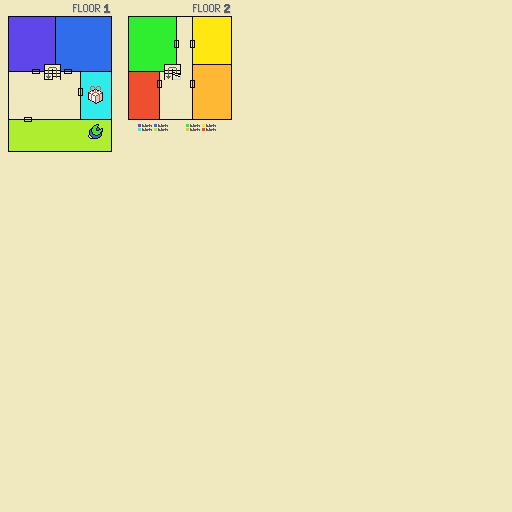
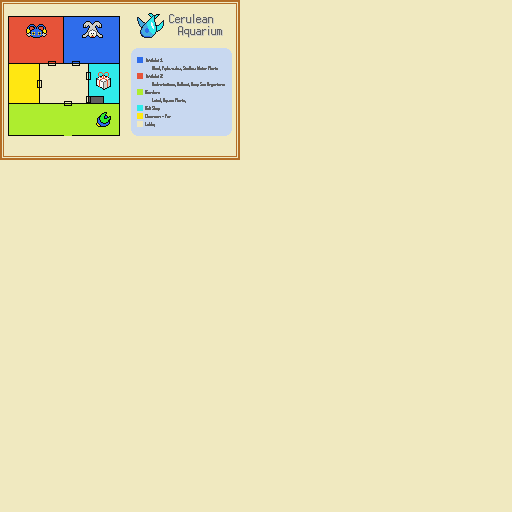
Remake aquarium map to match current layout

Changed region(s): [[0.0, 0.0, 0.4688, 0.3125]]

diff --git a/src/data/region_map/region_map_layout.h b/src/data/region_map/region_map_layout.h
@@ -1,17 +1,17 @@
 static const u8 sRegionMap_MapSectionLayout[MAP_HEIGHT][MAP_WIDTH] = {
-    {MAPSEC_EXHIBIT_1, MAPSEC_EXHIBIT_1, MAPSEC_EXHIBIT_1, MAPSEC_EXHIBIT_1, MAPSEC_EXHIBIT_1, MAPSEC_EXHIBIT_1, MAPSEC_EXHIBIT_2, MAPSEC_EXHIBIT_2, MAPSEC_EXHIBIT_2, MAPSEC_EXHIBIT_2, MAPSEC_EXHIBIT_2, MAPSEC_EXHIBIT_2, MAPSEC_EXHIBIT_2, MAPSEC_NONE, MAPSEC_NONE, MAPSEC_NONE, MAPSEC_NONE, MAPSEC_NONE, MAPSEC_NONE, MAPSEC_NONE, MAPSEC_NONE, MAPSEC_NONE, MAPSEC_NONE, MAPSEC_NONE, MAPSEC_NONE, MAPSEC_NONE, MAPSEC_NONE, MAPSEC_NONE},
-    {MAPSEC_EXHIBIT_1, MAPSEC_EXHIBIT_1, MAPSEC_EXHIBIT_1, MAPSEC_EXHIBIT_1, MAPSEC_EXHIBIT_1, MAPSEC_EXHIBIT_1, MAPSEC_EXHIBIT_2, MAPSEC_EXHIBIT_2, MAPSEC_EXHIBIT_2, MAPSEC_EXHIBIT_2, MAPSEC_EXHIBIT_2, MAPSEC_EXHIBIT_2, MAPSEC_EXHIBIT_2, MAPSEC_NONE, MAPSEC_NONE, MAPSEC_NONE, MAPSEC_NONE, MAPSEC_NONE, MAPSEC_NONE, MAPSEC_NONE, MAPSEC_NONE, MAPSEC_NONE, MAPSEC_NONE, MAPSEC_NONE, MAPSEC_NONE, MAPSEC_NONE, MAPSEC_NONE, MAPSEC_NONE},
-    {MAPSEC_EXHIBIT_1, MAPSEC_EXHIBIT_1, MAPSEC_EXHIBIT_1, MAPSEC_EXHIBIT_1, MAPSEC_EXHIBIT_1, MAPSEC_EXHIBIT_1, MAPSEC_EXHIBIT_2, MAPSEC_EXHIBIT_2, MAPSEC_EXHIBIT_2, MAPSEC_EXHIBIT_2, MAPSEC_EXHIBIT_2, MAPSEC_EXHIBIT_2, MAPSEC_EXHIBIT_2, MAPSEC_NONE, MAPSEC_NONE, MAPSEC_NONE, MAPSEC_NONE, MAPSEC_NONE, MAPSEC_NONE, MAPSEC_NONE, MAPSEC_NONE, MAPSEC_NONE, MAPSEC_NONE, MAPSEC_NONE, MAPSEC_NONE, MAPSEC_NONE, MAPSEC_NONE, MAPSEC_NONE},
-    {MAPSEC_EXHIBIT_1, MAPSEC_EXHIBIT_1, MAPSEC_EXHIBIT_1, MAPSEC_EXHIBIT_1, MAPSEC_EXHIBIT_1, MAPSEC_EXHIBIT_1, MAPSEC_EXHIBIT_2, MAPSEC_EXHIBIT_2, MAPSEC_EXHIBIT_2, MAPSEC_EXHIBIT_2, MAPSEC_EXHIBIT_2, MAPSEC_EXHIBIT_2, MAPSEC_EXHIBIT_2, MAPSEC_NONE, MAPSEC_NONE, MAPSEC_NONE, MAPSEC_NONE, MAPSEC_NONE, MAPSEC_NONE, MAPSEC_NONE, MAPSEC_NONE, MAPSEC_NONE, MAPSEC_NONE, MAPSEC_NONE, MAPSEC_NONE, MAPSEC_NONE, MAPSEC_NONE, MAPSEC_NONE},
-    {MAPSEC_EXHIBIT_1, MAPSEC_EXHIBIT_1, MAPSEC_EXHIBIT_1, MAPSEC_EXHIBIT_1, MAPSEC_EXHIBIT_1, MAPSEC_EXHIBIT_1, MAPSEC_EXHIBIT_2, MAPSEC_EXHIBIT_2, MAPSEC_EXHIBIT_2, MAPSEC_EXHIBIT_2, MAPSEC_EXHIBIT_2, MAPSEC_EXHIBIT_2, MAPSEC_EXHIBIT_2, MAPSEC_NONE, MAPSEC_NONE, MAPSEC_NONE, MAPSEC_NONE, MAPSEC_NONE, MAPSEC_NONE, MAPSEC_NONE, MAPSEC_NONE, MAPSEC_NONE, MAPSEC_NONE, MAPSEC_NONE, MAPSEC_NONE, MAPSEC_NONE, MAPSEC_NONE, MAPSEC_NONE},
-    {MAPSEC_EXHIBIT_1, MAPSEC_EXHIBIT_1, MAPSEC_EXHIBIT_1, MAPSEC_EXHIBIT_1, MAPSEC_EXHIBIT_1, MAPSEC_EXHIBIT_1, MAPSEC_EXHIBIT_2, MAPSEC_EXHIBIT_2, MAPSEC_EXHIBIT_2, MAPSEC_EXHIBIT_2, MAPSEC_EXHIBIT_2, MAPSEC_EXHIBIT_2, MAPSEC_EXHIBIT_2, MAPSEC_NONE, MAPSEC_NONE, MAPSEC_NONE, MAPSEC_NONE, MAPSEC_NONE, MAPSEC_NONE, MAPSEC_NONE, MAPSEC_NONE, MAPSEC_NONE, MAPSEC_NONE, MAPSEC_NONE, MAPSEC_NONE, MAPSEC_NONE, MAPSEC_NONE, MAPSEC_NONE},
-    {MAPSEC_EXHIBIT_1, MAPSEC_EXHIBIT_1, MAPSEC_EXHIBIT_1, MAPSEC_EXHIBIT_1, MAPSEC_EXHIBIT_1, MAPSEC_LOBBY, MAPSEC_EXHIBIT_2, MAPSEC_EXHIBIT_2, MAPSEC_EXHIBIT_2, MAPSEC_EXHIBIT_2, MAPSEC_EXHIBIT_2, MAPSEC_EXHIBIT_2, MAPSEC_EXHIBIT_2, MAPSEC_NONE, MAPSEC_NONE, MAPSEC_NONE, MAPSEC_NONE, MAPSEC_NONE, MAPSEC_NONE, MAPSEC_NONE, MAPSEC_NONE, MAPSEC_NONE, MAPSEC_NONE, MAPSEC_NONE, MAPSEC_NONE, MAPSEC_NONE, MAPSEC_NONE, MAPSEC_NONE},
-    {MAPSEC_LOBBY, MAPSEC_LOBBY, MAPSEC_LOBBY, MAPSEC_LOBBY, MAPSEC_LOBBY, MAPSEC_LOBBY, MAPSEC_LOBBY, MAPSEC_LOBBY, MAPSEC_LOBBY, MAPSEC_GIFT_SHOP, MAPSEC_GIFT_SHOP, MAPSEC_GIFT_SHOP, MAPSEC_GIFT_SHOP, MAPSEC_NONE, MAPSEC_NONE, MAPSEC_CLASSROOM, MAPSEC_CLASSROOM, MAPSEC_CLASSROOM, MAPSEC_CLASSROOM, MAPSEC_NONE, MAPSEC_NONE, MAPSEC_NONE, MAPSEC_NONE, MAPSEC_NONE, MAPSEC_NONE, MAPSEC_NONE, MAPSEC_NONE, MAPSEC_NONE},
-    {MAPSEC_LOBBY, MAPSEC_LOBBY, MAPSEC_LOBBY, MAPSEC_LOBBY, MAPSEC_LOBBY, MAPSEC_LOBBY, MAPSEC_LOBBY, MAPSEC_LOBBY, MAPSEC_LOBBY, MAPSEC_GIFT_SHOP, MAPSEC_GIFT_SHOP, MAPSEC_GIFT_SHOP, MAPSEC_GIFT_SHOP, MAPSEC_NONE, MAPSEC_NONE, MAPSEC_CLASSROOM, MAPSEC_CLASSROOM, MAPSEC_CLASSROOM, MAPSEC_CLASSROOM, MAPSEC_NONE, MAPSEC_NONE, MAPSEC_NONE, MAPSEC_NONE, MAPSEC_NONE, MAPSEC_NONE, MAPSEC_NONE, MAPSEC_NONE, MAPSEC_NONE},
-    {MAPSEC_LOBBY, MAPSEC_LOBBY, MAPSEC_LOBBY, MAPSEC_LOBBY, MAPSEC_LOBBY, MAPSEC_LOBBY, MAPSEC_LOBBY, MAPSEC_LOBBY, MAPSEC_LOBBY, MAPSEC_GIFT_SHOP, MAPSEC_GIFT_SHOP, MAPSEC_GIFT_SHOP, MAPSEC_GIFT_SHOP, MAPSEC_NONE, MAPSEC_NONE, MAPSEC_CLASSROOM, MAPSEC_CLASSROOM, MAPSEC_CLASSROOM, MAPSEC_CLASSROOM, MAPSEC_NONE, MAPSEC_NONE, MAPSEC_NONE, MAPSEC_NONE, MAPSEC_NONE, MAPSEC_NONE, MAPSEC_NONE, MAPSEC_NONE, MAPSEC_NONE},
-    {MAPSEC_LOBBY, MAPSEC_LOBBY, MAPSEC_LOBBY, MAPSEC_LOBBY, MAPSEC_LOBBY, MAPSEC_LOBBY, MAPSEC_LOBBY, MAPSEC_LOBBY, MAPSEC_LOBBY, MAPSEC_GIFT_SHOP, MAPSEC_GIFT_SHOP, MAPSEC_GIFT_SHOP, MAPSEC_GIFT_SHOP, MAPSEC_NONE, MAPSEC_NONE, MAPSEC_CLASSROOM, MAPSEC_CLASSROOM, MAPSEC_CLASSROOM, MAPSEC_CLASSROOM, MAPSEC_NONE, MAPSEC_NONE, MAPSEC_NONE, MAPSEC_NONE, MAPSEC_NONE, MAPSEC_NONE, MAPSEC_NONE, MAPSEC_NONE, MAPSEC_NONE},
-    {MAPSEC_LOBBY, MAPSEC_LOBBY, MAPSEC_LOBBY, MAPSEC_LOBBY, MAPSEC_LOBBY, MAPSEC_LOBBY, MAPSEC_LOBBY, MAPSEC_LOBBY, MAPSEC_LOBBY, MAPSEC_GIFT_SHOP, MAPSEC_GIFT_SHOP, MAPSEC_GIFT_SHOP, MAPSEC_GIFT_SHOP, MAPSEC_NONE, MAPSEC_NONE, MAPSEC_CLASSROOM, MAPSEC_CLASSROOM, MAPSEC_CLASSROOM, MAPSEC_CLASSROOM, MAPSEC_NONE, MAPSEC_NONE, MAPSEC_NONE, MAPSEC_NONE, MAPSEC_NONE, MAPSEC_NONE, MAPSEC_NONE, MAPSEC_NONE, MAPSEC_NONE},
-    {MAPSEC_LOBBY, MAPSEC_LOBBY, MAPSEC_LOBBY, MAPSEC_LOBBY, MAPSEC_LOBBY, MAPSEC_LOBBY, MAPSEC_LOBBY, MAPSEC_LOBBY, MAPSEC_LOBBY, MAPSEC_GIFT_SHOP, MAPSEC_GIFT_SHOP, MAPSEC_GIFT_SHOP, MAPSEC_GIFT_SHOP, MAPSEC_NONE, MAPSEC_NONE, MAPSEC_CLASSROOM, MAPSEC_CLASSROOM, MAPSEC_CLASSROOM, MAPSEC_CLASSROOM, MAPSEC_NONE, MAPSEC_NONE, MAPSEC_NONE, MAPSEC_NONE, MAPSEC_NONE, MAPSEC_NONE, MAPSEC_NONE, MAPSEC_NONE, MAPSEC_NONE},
-    {MAPSEC_GARDEN, MAPSEC_GARDEN, MAPSEC_GARDEN, MAPSEC_GARDEN, MAPSEC_GARDEN, MAPSEC_GARDEN, MAPSEC_GARDEN, MAPSEC_GARDEN, MAPSEC_GARDEN, MAPSEC_GARDEN, MAPSEC_GARDEN, MAPSEC_GARDEN, MAPSEC_GARDEN, MAPSEC_NONE, MAPSEC_NONE, MAPSEC_NONE, MAPSEC_NONE, MAPSEC_NONE, MAPSEC_NONE, MAPSEC_NONE, MAPSEC_NONE, MAPSEC_NONE, MAPSEC_NONE, MAPSEC_NONE, MAPSEC_NONE, MAPSEC_NONE, MAPSEC_NONE, MAPSEC_NONE},
-    {MAPSEC_GARDEN, MAPSEC_GARDEN, MAPSEC_GARDEN, MAPSEC_GARDEN, MAPSEC_GARDEN, MAPSEC_GARDEN, MAPSEC_GARDEN, MAPSEC_GARDEN, MAPSEC_GARDEN, MAPSEC_GARDEN, MAPSEC_GARDEN, MAPSEC_GARDEN, MAPSEC_GARDEN, MAPSEC_NONE, MAPSEC_NONE, MAPSEC_NONE, MAPSEC_NONE, MAPSEC_NONE, MAPSEC_NONE, MAPSEC_NONE, MAPSEC_NONE, MAPSEC_NONE, MAPSEC_NONE, MAPSEC_NONE, MAPSEC_NONE, MAPSEC_NONE, MAPSEC_NONE, MAPSEC_NONE},
+    {MAPSEC_EXHIBIT_2, MAPSEC_EXHIBIT_2, MAPSEC_EXHIBIT_2, MAPSEC_EXHIBIT_2, MAPSEC_EXHIBIT_2, MAPSEC_EXHIBIT_2, MAPSEC_EXHIBIT_2, MAPSEC_EXHIBIT_1, MAPSEC_EXHIBIT_1, MAPSEC_EXHIBIT_1, MAPSEC_EXHIBIT_1, MAPSEC_EXHIBIT_1, MAPSEC_EXHIBIT_1, MAPSEC_EXHIBIT_1},
+    {MAPSEC_EXHIBIT_2, MAPSEC_EXHIBIT_2, MAPSEC_EXHIBIT_2, MAPSEC_EXHIBIT_2, MAPSEC_EXHIBIT_2, MAPSEC_EXHIBIT_2, MAPSEC_EXHIBIT_2, MAPSEC_EXHIBIT_1, MAPSEC_EXHIBIT_1, MAPSEC_EXHIBIT_1, MAPSEC_EXHIBIT_1, MAPSEC_EXHIBIT_1, MAPSEC_EXHIBIT_1, MAPSEC_EXHIBIT_1},
+    {MAPSEC_EXHIBIT_2, MAPSEC_EXHIBIT_2, MAPSEC_EXHIBIT_2, MAPSEC_EXHIBIT_2, MAPSEC_EXHIBIT_2, MAPSEC_EXHIBIT_2, MAPSEC_EXHIBIT_2, MAPSEC_EXHIBIT_1, MAPSEC_EXHIBIT_1, MAPSEC_EXHIBIT_1, MAPSEC_EXHIBIT_1, MAPSEC_EXHIBIT_1, MAPSEC_EXHIBIT_1, MAPSEC_EXHIBIT_1},
+    {MAPSEC_EXHIBIT_2, MAPSEC_EXHIBIT_2, MAPSEC_EXHIBIT_2, MAPSEC_EXHIBIT_2, MAPSEC_EXHIBIT_2, MAPSEC_EXHIBIT_2, MAPSEC_EXHIBIT_2, MAPSEC_EXHIBIT_1, MAPSEC_EXHIBIT_1, MAPSEC_EXHIBIT_1, MAPSEC_EXHIBIT_1, MAPSEC_EXHIBIT_1, MAPSEC_EXHIBIT_1, MAPSEC_EXHIBIT_1},
+    {MAPSEC_EXHIBIT_2, MAPSEC_EXHIBIT_2, MAPSEC_EXHIBIT_2, MAPSEC_EXHIBIT_2, MAPSEC_EXHIBIT_2, MAPSEC_EXHIBIT_2, MAPSEC_EXHIBIT_2, MAPSEC_EXHIBIT_1, MAPSEC_EXHIBIT_1, MAPSEC_EXHIBIT_1, MAPSEC_EXHIBIT_1, MAPSEC_EXHIBIT_1, MAPSEC_EXHIBIT_1, MAPSEC_EXHIBIT_1},
+    {MAPSEC_EXHIBIT_2, MAPSEC_EXHIBIT_2, MAPSEC_EXHIBIT_2, MAPSEC_EXHIBIT_2, MAPSEC_EXHIBIT_2, MAPSEC_EXHIBIT_2, MAPSEC_EXHIBIT_2, MAPSEC_EXHIBIT_1, MAPSEC_EXHIBIT_1, MAPSEC_EXHIBIT_1, MAPSEC_EXHIBIT_1, MAPSEC_EXHIBIT_1, MAPSEC_EXHIBIT_1, MAPSEC_EXHIBIT_1},
+    {MAPSEC_CLASSROOM, MAPSEC_CLASSROOM, MAPSEC_CLASSROOM, MAPSEC_CLASSROOM, MAPSEC_CLASSROOM, MAPSEC_LOBBY, MAPSEC_LOBBY, MAPSEC_LOBBY, MAPSEC_LOBBY, MAPSEC_LOBBY, MAPSEC_LOBBY, MAPSEC_GIFT_SHOP, MAPSEC_GIFT_SHOP, MAPSEC_GIFT_SHOP},
+    {MAPSEC_CLASSROOM, MAPSEC_CLASSROOM, MAPSEC_CLASSROOM, MAPSEC_CLASSROOM, MAPSEC_CLASSROOM, MAPSEC_LOBBY, MAPSEC_LOBBY, MAPSEC_LOBBY, MAPSEC_LOBBY, MAPSEC_LOBBY, MAPSEC_LOBBY, MAPSEC_GIFT_SHOP, MAPSEC_GIFT_SHOP, MAPSEC_GIFT_SHOP},
+    {MAPSEC_CLASSROOM, MAPSEC_CLASSROOM, MAPSEC_CLASSROOM, MAPSEC_CLASSROOM, MAPSEC_CLASSROOM, MAPSEC_LOBBY, MAPSEC_LOBBY, MAPSEC_LOBBY, MAPSEC_LOBBY, MAPSEC_LOBBY, MAPSEC_LOBBY, MAPSEC_GIFT_SHOP, MAPSEC_GIFT_SHOP, MAPSEC_GIFT_SHOP},
+    {MAPSEC_CLASSROOM, MAPSEC_CLASSROOM, MAPSEC_CLASSROOM, MAPSEC_CLASSROOM, MAPSEC_CLASSROOM, MAPSEC_LOBBY, MAPSEC_LOBBY, MAPSEC_LOBBY, MAPSEC_LOBBY, MAPSEC_LOBBY, MAPSEC_LOBBY, MAPSEC_GIFT_SHOP, MAPSEC_GIFT_SHOP, MAPSEC_GIFT_SHOP},
+    {MAPSEC_CLASSROOM, MAPSEC_CLASSROOM, MAPSEC_CLASSROOM, MAPSEC_CLASSROOM, MAPSEC_CLASSROOM, MAPSEC_LOBBY, MAPSEC_LOBBY, MAPSEC_LOBBY, MAPSEC_LOBBY, MAPSEC_LOBBY, MAPSEC_STORAGE_ROOM, MAPSEC_STORAGE_ROOM, MAPSEC_GIFT_SHOP, MAPSEC_GIFT_SHOP},
+    {MAPSEC_GARDEN, MAPSEC_GARDEN, MAPSEC_GARDEN, MAPSEC_GARDEN, MAPSEC_GARDEN, MAPSEC_GARDEN, MAPSEC_GARDEN, MAPSEC_GARDEN, MAPSEC_GARDEN, MAPSEC_GARDEN, MAPSEC_GARDEN, MAPSEC_GARDEN, MAPSEC_GARDEN, MAPSEC_GARDEN},
+    {MAPSEC_GARDEN, MAPSEC_GARDEN, MAPSEC_GARDEN, MAPSEC_GARDEN, MAPSEC_GARDEN, MAPSEC_GARDEN, MAPSEC_GARDEN, MAPSEC_GARDEN, MAPSEC_GARDEN, MAPSEC_GARDEN, MAPSEC_GARDEN, MAPSEC_GARDEN, MAPSEC_GARDEN, MAPSEC_GARDEN},
+    {MAPSEC_GARDEN, MAPSEC_GARDEN, MAPSEC_GARDEN, MAPSEC_GARDEN, MAPSEC_GARDEN, MAPSEC_GARDEN, MAPSEC_GARDEN, MAPSEC_GARDEN, MAPSEC_GARDEN, MAPSEC_GARDEN, MAPSEC_GARDEN, MAPSEC_GARDEN, MAPSEC_GARDEN, MAPSEC_GARDEN},
+    {MAPSEC_GARDEN, MAPSEC_GARDEN, MAPSEC_GARDEN, MAPSEC_GARDEN, MAPSEC_GARDEN, MAPSEC_GARDEN, MAPSEC_GARDEN, MAPSEC_GARDEN, MAPSEC_GARDEN, MAPSEC_GARDEN, MAPSEC_GARDEN, MAPSEC_GARDEN, MAPSEC_GARDEN, MAPSEC_GARDEN},
 };

diff --git a/src/region_map.c b/src/region_map.c
@@ -38,7 +38,7 @@
  *
  */
 
-#define MAP_WIDTH 28
+#define MAP_WIDTH 14
 #define MAP_HEIGHT 15
 #define MAPCURSOR_X_MIN 1
 #define MAPCURSOR_Y_MIN 2
@@ -126,6 +126,9 @@ static const u16 sRegionMapPlayerIcon_MayPal[] = INCBIN_U16("graphics/pokenav/re
 static const u8 sRegionMapPlayerIcon_MayGfx[] = INCBIN_U8("graphics/pokenav/region_map/may_icon.4bpp");
 
 #include "data/region_map/region_map_layout.h"
+// old MAP_WIDTH * MAP_HEIGHT - new MAP_WIDTH * MAP_HEIGHT
+// not using constants directly since that makes the size a "bad or irreducible absolute expression"
+PADDING(".rodata", (28 * 15) - (14 * 15));
 #include "data/region_map/region_map_entries.h"
 
 static const u16 sRegionMap_SpecialPlaceLocations[][2] =
